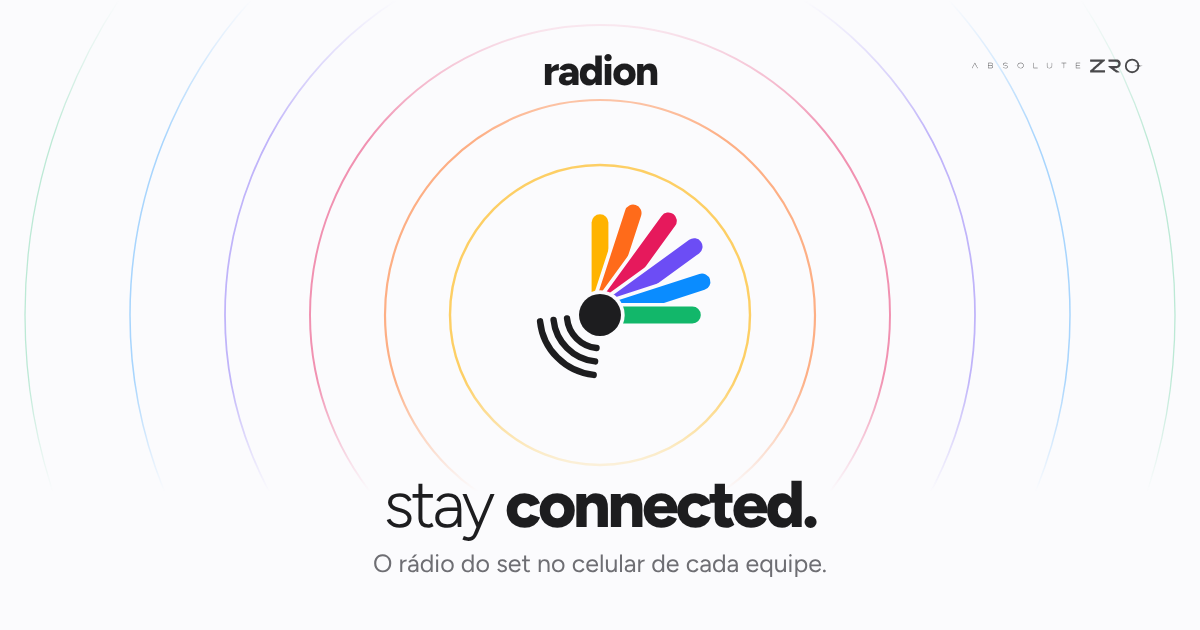
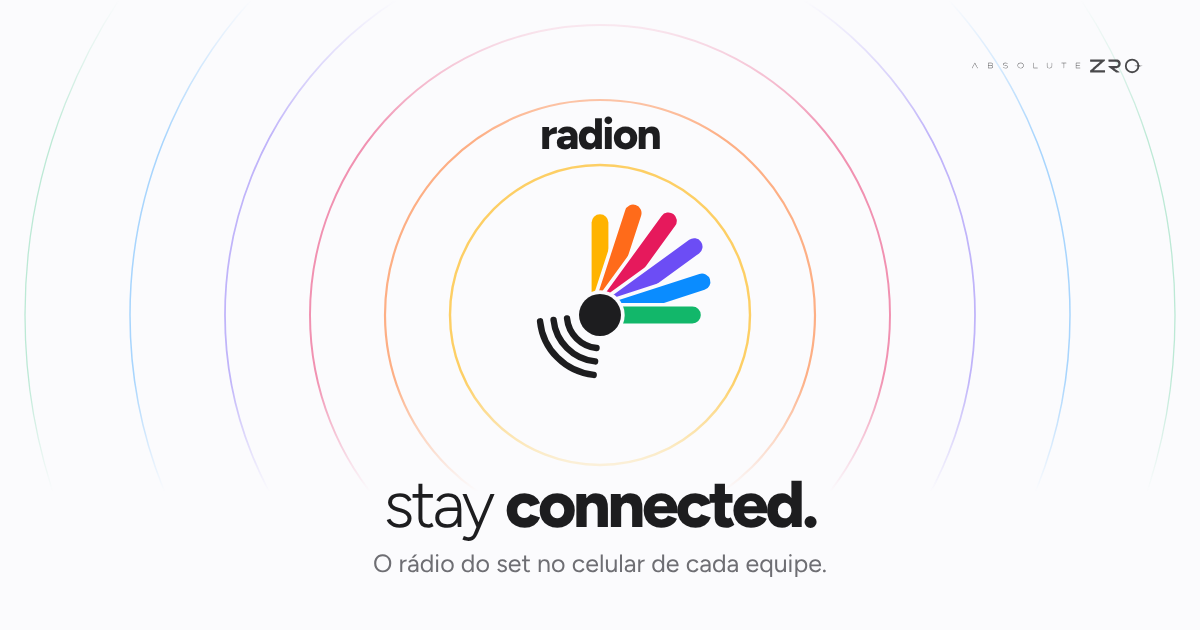
RADION: na imagem de compartilhar o nome fica junto do símbolo
Reforço do titular (07/11/2026): o "radion" em Figtree ExtraBold desce para
perto do símbolo, entre os anéis; o círculo segue no centro exato da imagem.

Claude-Session: https://claude.ai/code/session_01EAKxGSM1FNhaAFLbhvV67g

Changed region(s): [[0.4317, 0.181, 0.555, 0.2413], [0.4317, 0.0905, 0.555, 0.1508]]

diff --git a/docs/roadmap.md b/docs/roadmap.md
@@ -226,7 +226,8 @@ Pedido do titular: o que o app de computador faz e cabe no celular, também no c
   Pronto para o lote de sexta (Vercel travada).
 - ✅ **RADION, o nome em Figtree** (titular, 07/11/2026, pelo Painel Geral): "radion" passa de Nunito Black para Figtree
   ExtraBold (800), -0,04em, e fica mais junto do símbolo (0,32em: ~8 px em 25 px). No cabeçalho do app e da página
-  inicial, na imagem de compartilhar e nas telas da página inicial (refeitas); o Nunito sai do carregamento e do
+  inicial, na imagem de compartilhar (o nome desce para junto do símbolo, entre os anéis; o círculo segue no centro) e nas telas
+  da página inicial (refeitas); o Nunito sai do carregamento e do
   repositório. O símbolo não muda. Lote de sexta.
 - Fase 2: diária ligada ao projeto do HUB e convite pelo @. Fase 3: agenda do Maestro e escala do Carro do Freela.
 
